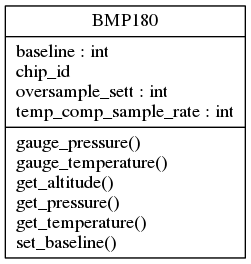
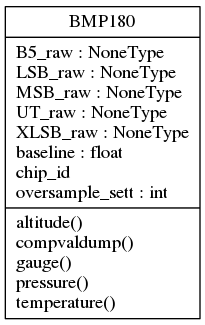
changed to generator based refreshing

Changed region(s): [[0.0, 0.0, 0.9951, 1.0]]

diff --git a/bmp180.py b/bmp180.py
@@ -3,7 +3,8 @@ bmp180 is a micropython module for the Bosch BMP180 sensor. It measures
 temperature as well as pressure, with a high enough resolution to calculate
 altitude.
 Breakoutboard: http://www.adafruit.com/products/1603  
-data-sheet: http://ae-bst.resource.bosch.com/media/products/dokumente/bmp180/BST-BMP180-DS000-09.pdf
+data-sheet: http://ae-bst.resource.bosch.com/media/products/dokumente/
+bmp180/BST-BMP180-DS000-09.pdf
 
 The MIT License (MIT)
 Copyright (c) 2014 Sebastian Plamauer, oeplse@gmail.com
@@ -46,8 +47,8 @@ class BMP180():
         elif side_str == 'Y':
             side = 2
         else:
-            print('pass either X or Y, defaulting to Y')
-            side = 2
+            print('pass either X or Y, defaulting to X')
+            side = 1
 
         # create i2c obect
         _bmp_addr = self._bmp_addr
@@ -67,103 +68,110 @@ class BMP180():
         self._MD = unp('>h', self._bmp_i2c.mem_read(2, _bmp_addr, 0xBE))[0]
 
         # settings to be adjusted by user
-        self.oversample_sett = 0
-        self.temp_comp_sample_rate = 1
-        self.baseline = 101325
+        self.oversample_sett = 3
+        self.baseline = 101325.0
 
-        # priate attributes not to be used by user
+        # private attributes not to be used by user
         self._t_temperature_ready = None
         self._UT = None
         self._t_pressure_ready = None
         self._B5 = None
-        self._t_B5 = None
-        self._dt_B5 = 1000/self.temp_comp_sample_rate
-        self._UT = None
 
-    # gauge temperature
-    def gauge_temperature(self):
+        # output raw
+        self.UT_raw = None
+        self.B5_raw = None
+        self.MSB_raw = None
+        self.LSB_raw = None
+        self.XLSB_raw = None
+
+        for _ in range(128):
+            next(self.gauge())
+            pyb.delay(1)
+
+    # dump compensation values
+    def compvaldump(self):
         '''
-        Starts the temperature measurement and sets the time it will be
-        finished.
+        Returns a list of all compensation values
         '''
-        self._bmp_i2c.mem_write(0x2E, self._bmp_addr, 0xF4)
-        self._t_temperature_ready = pyb.millis()+5
+        return [self._AC1, self._AC2, self._AC3, self._AC4, self._AC5, self._AC6, 
+                self._B1, self._B2, self._MB, self._MC, self._MD]
 
-        return
-
-    # get temperature
-    def get_temperature(self):
+    # gauge raw
+    def gauge(self):
         '''
-        Waits until the temperature measurement is finished, then returns the
-        temperature.
+        Generator refreshing the raw measurments.
         '''
-        if self._t_temperature_ready is None:
-            self.gauge_temperature()
+        if self._t_pressure_ready is None:
+            if self._B5 is None:
+                if self._t_temperature_ready is None:
+                    self._bmp_i2c.mem_write(0x2E, self._bmp_addr, 0xF4)
+                    self._t_temperature_ready = pyb.millis()+5
+                while pyb.millis() <= self._t_temperature_ready:
+                    yield None
+                try:
+                    self.UT_raw = self._bmp_i2c.mem_read(2, self._bmp_addr, 0xF6)
+                except:
+                    yield None
+                self._B5 = True
+                self._t_temperature_ready = None
+                yield None
 
-        while pyb.millis() <= self._t_temperature_ready:
-            pass
+            if self.oversample_sett not in range(4):
+                print('oversample_sett can only be 0, 1, 2 or 3, using 3 instead')
+                self.oversample_sett = 3
 
-        self._UT = unp('>h', self._bmp_i2c.mem_read(2, self._bmp_addr, 0xF6))[0]
-        X1 = (self._UT-self._AC6)*self._AC5/2**15
-        X2 = self._MC*2**11/(X1+self._MD)
+            delays = (5, 8, 14, 25)
+
+            self._bmp_i2c.mem_write((0x34+(self.oversample_sett << 6)),
+                                    self._bmp_addr,
+                                    0xF4)
+
+            self._t_pressure_ready = pyb.millis() + delays[self.oversample_sett]
+        while pyb.millis() <= self._t_pressure_ready:
+            yield None
+        try:
+            self.MSB_raw = self._bmp_i2c.mem_read(1, self._bmp_addr, 0xF6)
+            self.LSB_raw = self._bmp_i2c.mem_read(1, self._bmp_addr, 0xF7)
+            self.XLSB_raw = self._bmp_i2c.mem_read(1, self._bmp_addr, 0xF8)
+        except:
+            yield None
+        self._t_pressure_ready = None
+        self._B5 = None
         self._t_temperature_ready = None
+        yield None
 
+    # temperature
+    @property
+    def temperature(self):
+        '''
+        Temperature in degree C.
+        '''
+        next(self.gauge())
+        try:
+            UT = unp('>h', self.UT_raw)[0]
+        except:
+            return 0.0
+        X1 = (UT-self._AC6)*self._AC5/2**15
+        X2 = self._MC*2**11/(X1+self._MD)
+        self.B5_raw = X1+X2
         return (((X1+X2)+8)/2**4)/10
 
-    # B5 value for temperature compensation of pressure
-    def _get_B5(self):
+    # pressure
+    @property
+    def pressure(self):
         '''
-        Calculates and sets compensation value B5.
+        Pressure in mbar.
         '''
-        if (self._B5 is None) or ((pyb.millis()-self._t_B5) > self._dt_B5):
-            self.get_temperature()
-            X1 = (self._UT-self._AC6)*self._AC5/2**15
-            X2 = self._MC*2**11/(X1+self._MD)
-            self._B5 = X1+X2
-            self._t_B5 = pyb.millis()
-
-        return
-
-    # gauge pressure
-    def gauge_pressure(self):
-        '''
-        Starts the pressure measurement and sets the time it will be
-        finished.
-        '''
-        if self._B5 is None:
-            self._get_B5()
-
-        if self.oversample_sett not in range(4):
-            print('oversample_sett can only be 0, 1, 2 or 3, using 3 instead')
-            self.oversample_sett = 3
-
-        delays = (5, 8, 14, 25)
-
-        self._bmp_i2c.mem_write((0x34+(self.oversample_sett << 6)),self._bmp_addr,0xF4)
-        self._t_pressure_ready = pyb.millis() + delays[self.oversample_sett]
-
-        return
-
-    # get pressure
-    def get_pressure(self):
-        '''
-        Waits until the pressure measurement is finished, then returns the
-        pressure.
-        '''
-        self._get_B5()
-
-        if self._t_pressure_ready is None:
-            self.gauge_pressure()
-
-        while pyb.millis() <= self._t_pressure_ready:
-            pass
-
-        MSB = unp('<h', self._bmp_i2c.mem_read(1, self._bmp_addr, 0xF6))[0]
-        LSB = unp('<h', self._bmp_i2c.mem_read(1, self._bmp_addr, 0xF7))[0]
-        XLSB = unp('<h', self._bmp_i2c.mem_read(1, self._bmp_addr, 0xF8))[0]
-
+        next(self.gauge())
+        self.temperature
+        try:
+            MSB = unp('<h', self.MSB_raw)[0]
+            LSB = unp('<h', self.LSB_raw)[0]
+            XLSB = unp('<h', self.XLSB_raw)[0]
+        except:
+            return 0.0
         UP = ((MSB << 16)+(LSB << 8)+XLSB) >> (8-self.oversample_sett)
-        B6 = self._B5-4000
+        B6 = self.B5_raw-4000
         X1 = (self._B2*(B6**2/2**12))/2**11
         X2 = self._AC2*B6/2**11
         X3 = X1+X2
@@ -180,45 +188,16 @@ class BMP180():
         X1 = (pressure/2**8)**2
         X1 = (X1*3038)/2**16
         X2 = (-7357*pressure)/2**16
-        self._t_pressure_ready = None
-
         return pressure+(X1+X2+3791)/2**4
 
-    # pressure baseline
-    def set_baseline(self, dt=None):
+    # altitude
+    @property
+    def altitude(self):
         '''
-        Measures the pressure for a given time and sets baseline to the mean of
-        the measurements.
-        '''
-        if (dt is None) or (dt == 0):
-            dt = 1000
-
-        count = 0
-        sum_pressure = 0
-        t_stop = pyb.millis() + dt
-
-        while pyb.millis() < t_stop:
-            sum_pressure = sum_pressure + self.get_pressure()
-            count = count + 1
-
-        self.baseline = sum_pressure / count
-
-        return
-
-    # altitude above reference
-    def get_altitude(self):
-        '''
-        Calculates and returns the altitude relative to baseline.
-
-        | altitude |       baseline |  
-        |:--------:|:--------------:|  
-        | absolute |     baseline() |  
-        | true     |        QNH*100 |  
-        | pressure | 101325 or None |  
+        Altitude in m.
         '''
         try:
-            return -7990*math.log(self.get_pressure()/self.baseline)
-
-        except ZeroDivisionError:
-            print('baseline can\'t be zero')
-            return None
+            h = -7990.0*math.log(self.pressure/self.baseline)
+        except:
+            h = 0.0
+        return h

diff --git a/README.md b/README.md
@@ -28,13 +28,13 @@ Example:
 from bmp180 import BMP180
 bmp180 = BMP180()
 bmp180.oversample_sett = 2
-temp = bmp180.get_temperature()
-baseline = bmp180.baseline(1000)
-p = bmp180.get_pressure()
-altitude = bmp180.get_altitude()
-print(temp, baseline, p, altitude)
+bmp180.baseline = 101325
+
+temp = bmp180.temperature
+p = bmp180.pressure
+altitude = altitude
+print(temp, p, altitude)
 ```
-Note that in this example the altitude will be around zero, because the pressure measurment is done immediatly after the baseline setting.
 
 Classes
 -------
@@ -46,28 +46,21 @@ Module for the BMP180 pressure sensor.
 Methods
 --------------
 
+``compvaldump()``
+Returns a list of all compensation values.  
 
-``get_altitude()``  
-Calculates and returns the altitude relative to a the baseline.  
+``gauge()``  
+Generator refreshing the measurements. Does not need to be called manually.
 
-``baseline(dt=None)``  
-Measures the pressure for a given time and sets the baseline to  
-the mean of the measurements. If no dt is given it will default  
-to 10 seconds.
+``temperature``  
+Temperature in degree C.  
 
-``gauge_pressure()``  
-Starts the pressure measurement and sets the time it will be  
-finished.
+``pressure``  
+Pressure in mbar.  
 
-``gauge_temperature()``  
-Starts the temperature measurement and sets the time it will be  
-finished.
+``altitude``  
+Altitude in m.  
 
-``get_pressure()``  
-Returns the pressure. If not gauged first, it will do that first.
-
-``get_temperature()``  
-Returns the temperature. If not gauged first, it will do that first.
 
 Instance variables
 ------------------
@@ -83,14 +76,11 @@ Sets the accuracy. Default: 0
 
 ``baseline``  
 Pressure at Main Sea Level. The default is 101325 Pa, but you can use your local QNH in Pa.  
-When evoked, the method ``baseline(dt)`` sets this variable to the local pressure.
 To get different altitudes, use this as baselines:
 
 | altitude |       baseline |  
 |:--------:|:--------------:|  
-| absolute |     baseline() |  
+| absolute | local pressure |  
 | true     |        QNH*100 |  
 | pressure | 101325 or None |  
 
-``temp_comp_sample_rate``  
-The refresh rate of the temperature measurment for compensating pressure in Hz.
